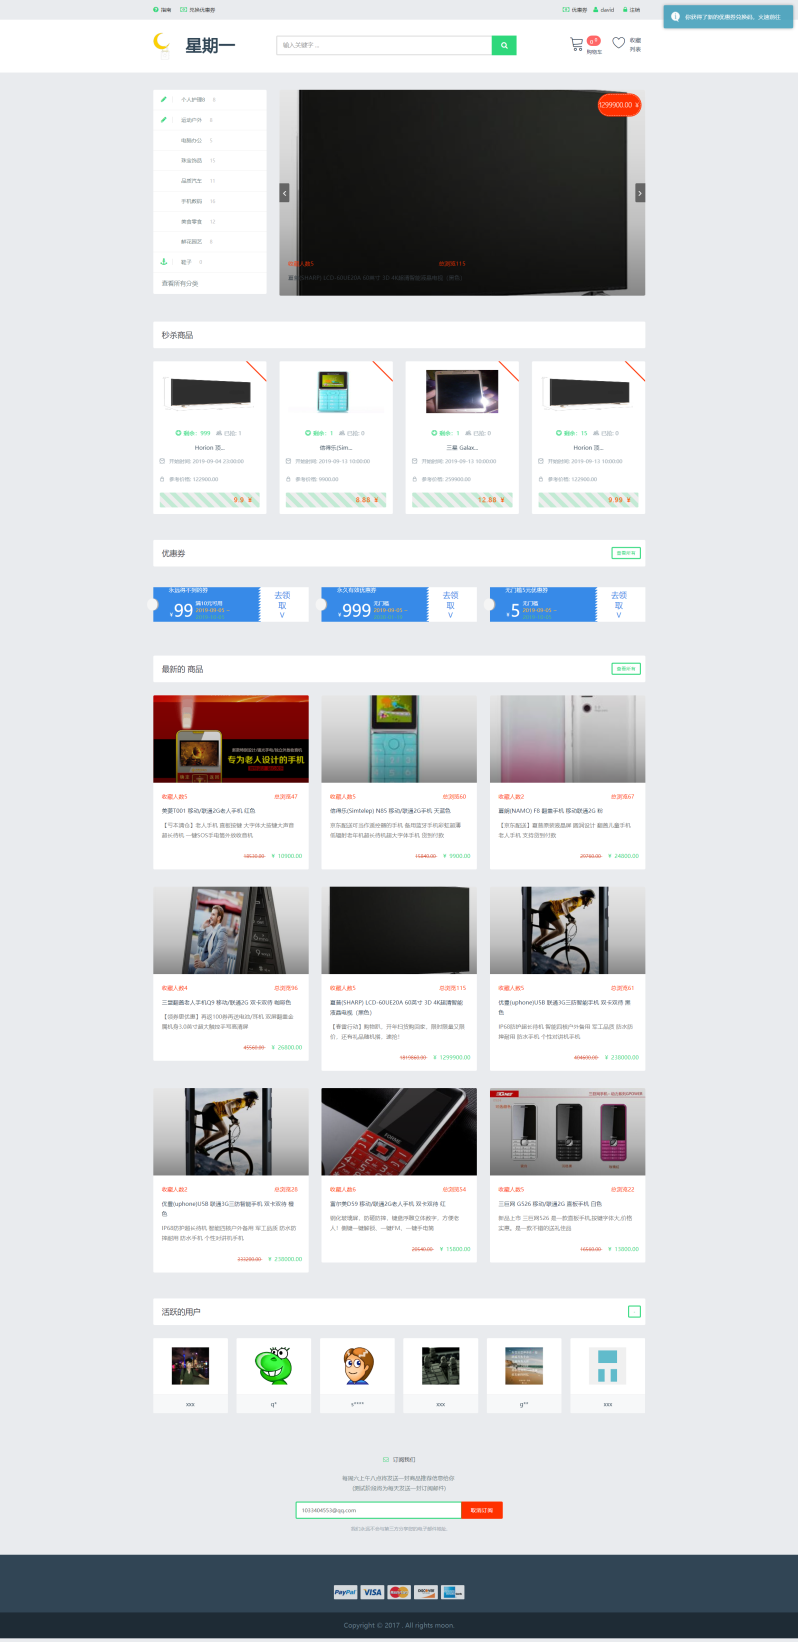
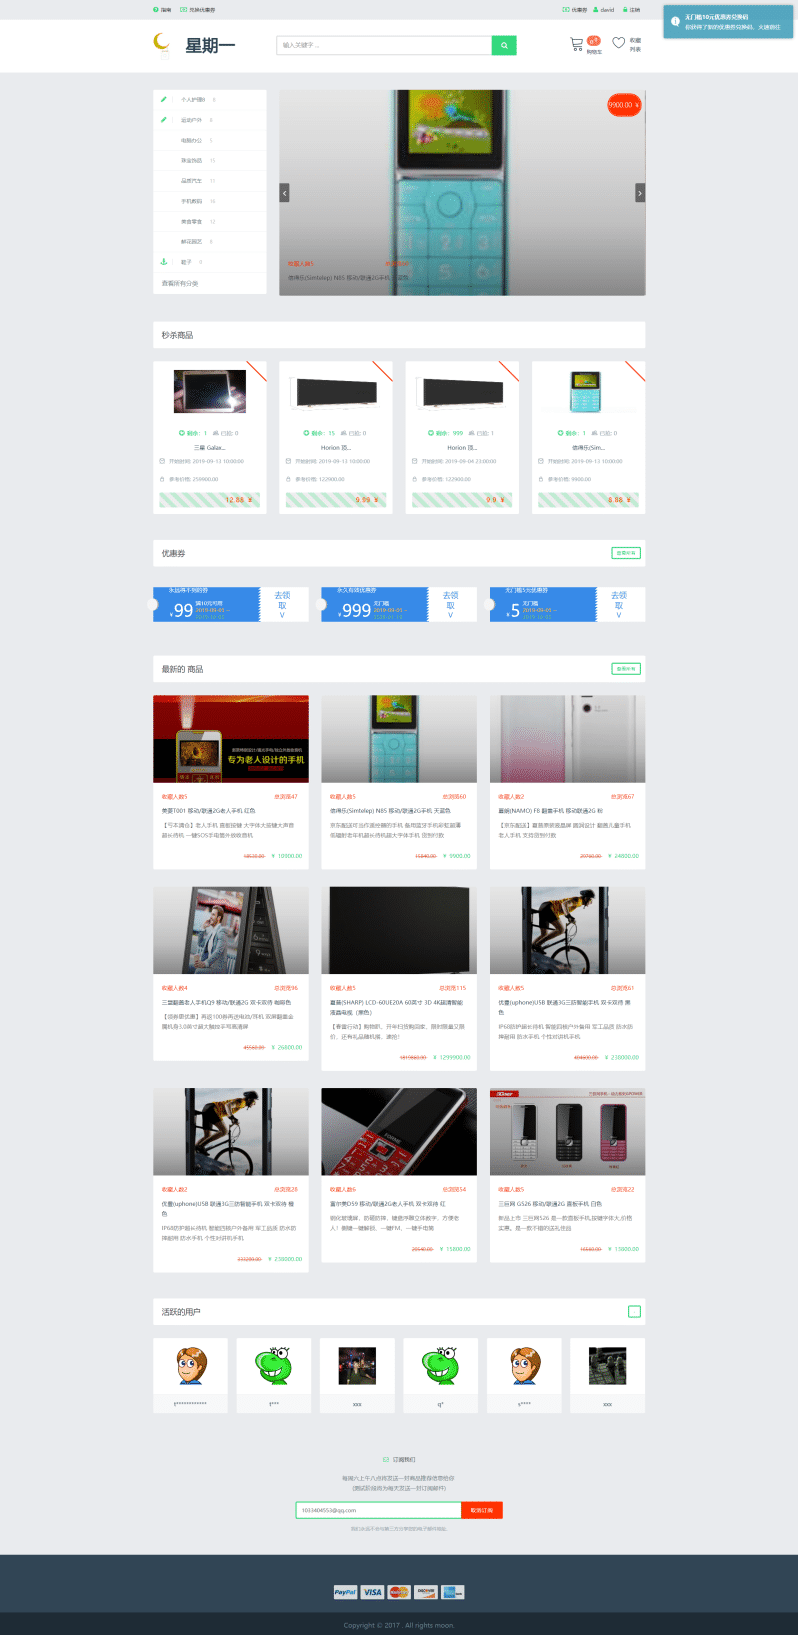
通知内容的显示

diff --git a/app/Http/Controllers/User/NotificationController.php b/app/Http/Controllers/User/NotificationController.php
@@ -38,15 +38,7 @@ class NotificationController extends Controller
 
         foreach ($notifications as $notification) {
 
-            switch ($notification->type) {
-
-                case CouponCodeNotification::class:
-                    $notification->is_code = true;
-                    break;
-                default:
-                    $notification->is_default = 0;
-                    break;
-            }
+            $notification->title = NotificationServe::getTitle($notification);
         }
 
         $unreadCount = $user->unreadNotifications()->count();
@@ -110,24 +102,16 @@ class NotificationController extends Controller
         // 查看是否有上一条下一条
         $last = $user->notifications()->where('created_at', '<', $notification->created_at)->first();
         $next = $user->notifications()->where('created_at', '>', $notification->created_at)->first();
-
+        // 标记为已读
         $notification->markAsRead();
 
-        // 使用哪一个模板
-        $view = 'default';
-        switch ($notification->type) {
-
-            case CouponCodeNotification::class:
-                $view = 'code';
-                break;
-        }
-        $view = "user.notifications.types.{$view}";
-
+        $view = NotificationServe::getView($notification);
         if (! view()->exists($view)) {
 
             abort(404, '未知的的消息');
         }
 
+        $notification->title = NotificationServe::getTitle($notification);
         $data = $notification->data;
 
         return view('user.notifications.show', compact('last', 'next', 'notification', 'view', 'data'));
@@ -153,17 +137,10 @@ class NotificationController extends Controller
         if ($count > 0) {
 
             $notification = $user->unreadNotifications()->first();
-            switch ($notification->type) {
 
-                case CouponCodeNotification::class:
-                    $id = $notification->id;
-                    $title = "你获得了新的优惠券兑换码，火速前往";
-                    $content = NotificationServe::getTitle($notification);
-                    break;
-                default:
-                    $content = '默认消息';
-                    break;
-            }
+            // 前端弹窗内容和标题相反显示，所以变量名会有点怪
+            $title = NotificationServe::getContent($notification);
+            $content = NotificationServe::getTitle($notification);
         }
 
         return responseJson(200, 'success', compact('count', 'title', 'content', 'id'));

diff --git a/resources/views/user/notifications/index.blade.php b/resources/views/user/notifications/index.blade.php
@@ -258,11 +258,7 @@
                                         <a class="i-markRead" href="/user/notifications/{{ $notification->id }}">
                                             <p class="s-main-content">
                                                 <span style="color: green" class="notification_title {{ is_null($notification->read_at) ? '' : 'read' }}">
-                                                    @if ($notification->is_code)
-                                                        你有一个新的兑换码可以用以使用
-                                                    @else
-                                                        默认通知
-                                                    @endif
+                                                   {{ $notification->title }}
                                                 </span>
                                             </p>
                                         </a>

diff --git a/app/Services/NotificationServe.php b/app/Services/NotificationServe.php
@@ -7,6 +7,21 @@ use Illuminate\Notifications\DatabaseNotification;
 
 class NotificationServe
 {
+    public static function getView(DatabaseNotification $notification)
+    {
+        // 使用哪一个模板
+        $view = 'default';
+        switch ($notification->type) {
+
+            case CouponCodeNotification::class:
+                $view = 'code';
+                break;
+        }
+        $view = "user.notifications.types.{$view}";
+
+        return $view;
+    }
+
    public static function getTitle(DatabaseNotification $notification)
    {
        $data = $notification->data;
@@ -16,6 +31,11 @@ class NotificationServe
            return $data['title'];
        }
 
+       return self::getContent($notification);
+   }
+
+   public static function getContent(DatabaseNotification $notification)
+   {
        $title = '';
        switch ($notification->type) {
 

diff --git a/resources/views/user/notifications/show.blade.php b/resources/views/user/notifications/show.blade.php
@@ -36,6 +36,8 @@
 
                 <div class="row row-masnory row-tb-20">
                     <div class="coupon-wrapper">
+                        <h2 style="text-align: center; margin: 20px;font-size: 24px;">{{ $notification->title }}</h2>
+                        <hr>
                         @include($view)
                     </div>
                 </div>

diff --git a/resources/views/user/notifications/types/code.blade.php b/resources/views/user/notifications/types/code.blade.php
@@ -1,5 +1,3 @@
-<h2 style="text-align: center; margin: 20px;font-size: 24px;">{{ $data['title'] }}</h2>
-<hr>
 <h3 style="text-align: center;">有效期至：{{ $data['start_date'] }} ~ {{ $data['end_date'] }}</h3>
 <br>
 <p style="text-indent: 20px;">
